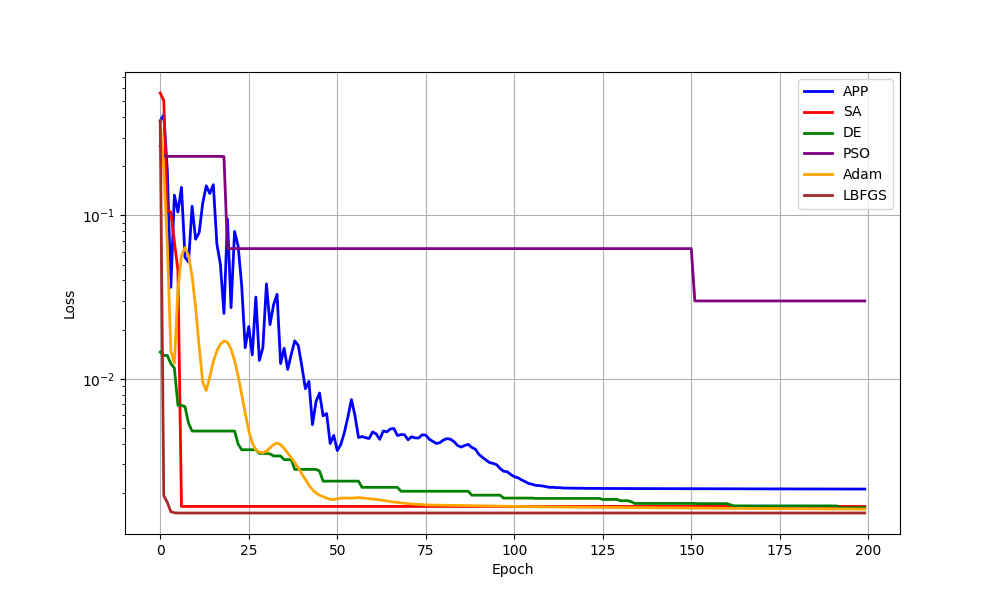
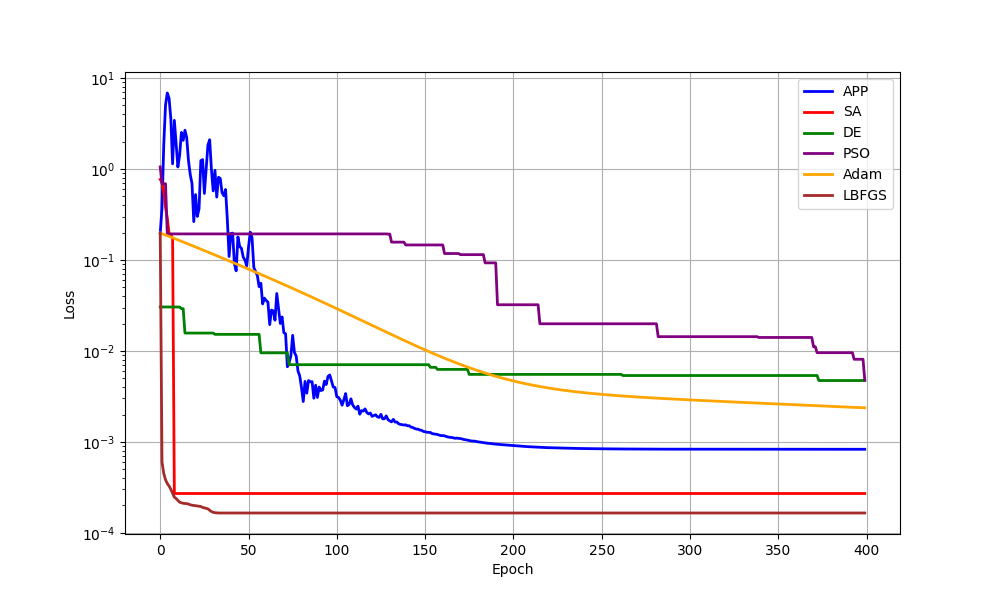
Update mlp_contrast.

diff --git a/mlp_app/mlp_contrast.py b/mlp_app/mlp_contrast.py
@@ -7,11 +7,12 @@ from mlp_grad import mlp_adam, mlp_lbfgs
 from utils import *
 
 # 设置种子
-torch.manual_seed(42)
-np.random.seed(42)
+seed = 42
+torch.manual_seed(seed)
+np.random.seed(seed)
 
 # 创建相同的模型
-layer_dims = [2, 3, 2]
+layer_dims = [2, 8, 2]
 model_app = create_model(layer_dims)
 model_sa = create_model(layer_dims)
 model_de = create_model(layer_dims)
@@ -22,7 +23,7 @@ model_lbfgs = create_model(layer_dims)
 # 确保模型具有相同的初始参数
 initialize_model(model_app)
 initial_params = get_model_params(model_app).detach().numpy()
-print(f"参数数量: {len(initial_params)}")
+# print(f"参数数量: {len(initial_params)}")
 
 set_model_params(model_app, initial_params.copy())
 set_model_params(model_sa, initial_params.copy())
@@ -35,43 +36,21 @@ set_model_params(model_lbfgs, initial_params.copy())
 num_samples = 200
 X = torch.randn(num_samples, 2, dtype=torch.float64)
 y = torch.stack([
-    torch.sin(20 * X[:, 0]) + torch.sign(X[:, 1]),  # 高频振荡 + 不连续函数
-    torch.where(torch.abs(X[:, 0] * X[:, 1]) < 0.3, 
-                1.0, 
-                0.1 / (torch.abs(X[:, 0] * X[:, 1]) - 0.3 + 0.05))  # 接近奇异点的函数
+    torch.tanh(2 * X[:, 0]) * torch.sigmoid(3 * X[:, 1]) + 0.2 * torch.sin(4 * X[:, 0] * X[:, 1]),
+    0.5 * torch.log(1 + torch.exp(X[:, 0])) + 0.3 * torch.cos(X[:, 1]**2) * torch.exp(-0.1 * X[:, 0])
 ], dim=1)
 y = torch.nn.functional.normalize(y, dim=0)
 
 # 优化参数
-max_iters = 200
+max_iters = 400
 
 # 运行优化
-loss_history_app = mlp_app(model_app, X, y,
-                           K=max_iters,
-                           lambda_=1 / np.sqrt(len(initial_params)),
-                           rho=0.96,
-                           n=40)
-loss_history_sa = mlp_sa(model_sa, X, y,
-                         epochs=max_iters,
-                         initial_temp=1.0,
-                         restart_temp_ratio=2e-5,
-                         bounds=None)
-loss_history_de = mlp_de(model_de, X, y,
-                         epochs=max_iters,
-                         population_size=50,
-                         bounds=None)
-loss_history_pso = mlp_pso(model_pso, X, y,
-                           epochs=max_iters,
-                           swarmsize=50,
-                           omega=0.5,
-                           phip=0.5,
-                           phig=0.5,
-                           bounds=None)
-loss_history_adam = mlp_adam(model_adam, X, y,
-                             epochs=max_iters,
-                             lr=1e-1)
-loss_history_lbfgs = mlp_lbfgs(model_lbfgs, X, y,
-                               epochs=max_iters)
+loss_history_app = mlp_app(model_app, X, y, K=max_iters, lambda_=1 / np.sqrt(len(initial_params)), rho=0.96, n=len(initial_params))
+loss_history_sa = mlp_sa(model_sa, X, y, epochs=max_iters, initial_temp=1.0, restart_temp_ratio=2e-5, bounds=None)
+loss_history_de = mlp_de(model_de, X, y, epochs=max_iters, population_size=len(initial_params), bounds=None)
+loss_history_pso = mlp_pso(model_pso, X, y, epochs=max_iters, swarmsize=len(initial_params), omega=0.5, phip=0.5, phig=0.5, bounds=None)
+loss_history_adam = mlp_adam(model_adam, X, y, epochs=max_iters, lr=1e-3)
+loss_history_lbfgs = mlp_lbfgs(model_lbfgs, X, y, epochs=max_iters)
 
 # 绘制损失曲线
 plt.figure(figsize=(10, 6))
@@ -96,5 +75,5 @@ with torch.no_grad():
     pso_loss = torch.nn.functional.mse_loss(model_pso(X), y).item()
     adam_loss = torch.nn.functional.mse_loss(model_adam(X), y).item()
     lbfgs_loss = torch.nn.functional.mse_loss(model_lbfgs(X), y).item()
-print(
-    f"最终损失 - APP: {loss_app:.6f}, SA: {sa_loss:.6f}, DE: {de_loss:.6f}, PSO: {pso_loss:.6f}, Adam: {adam_loss:.6f}, LBFGS: {lbfgs_loss:.6f}")
+print(f"最终损失 - APP: {loss_app:.2e}, SA: {sa_loss:.2e}, DE: {de_loss:.2e}, PSO: {pso_loss:.2e}, Adam: {adam_loss:.2e}, LBFGS: {lbfgs_loss:.2e}")
+print(f"参数数量: {len(initial_params)}")
